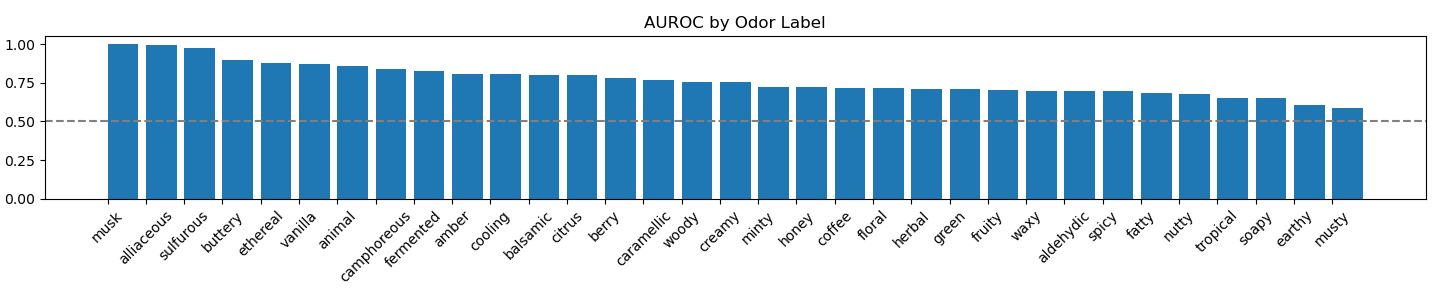
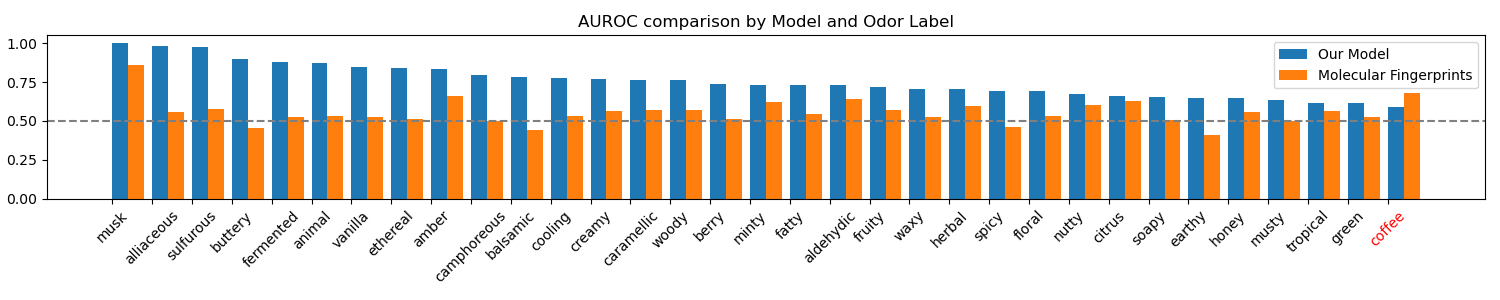
Baseline for pair task

diff --git a/pairing/fingerprint.py b/pairing/fingerprint.py
@@ -1,0 +1,57 @@
+from pairing.data import PairData, Dataset, loader
+import rdkit
+import rdkit.Chem.rdFingerprintGenerator
+import numpy as np
+import single.model
+import analysis.auroc
+import torch
+import torchmetrics
+import tqdm
+
+# https://github.com/rdkit/rdkit/discussions/3863
+def to_numpy(fp):
+    return np.frombuffer(bytes(fp.ToBitString(), 'utf-8'), 'u1') - ord('0')
+
+def collate(mfpgen,dataset):
+    preds = []
+    ys = []
+    for i,d in enumerate(tqdm.tqdm(dataset)):
+        # Caching these converts from O(n^2)
+        # to O(n)
+        mol1 = rdkit.Chem.MolFromSmiles(d.smiles_s)
+        fp1 = mfpgen.GetFingerprint(mol1)
+        
+        mol2 = rdkit.Chem.MolFromSmiles(d.smiles_t)
+        fp2 = mfpgen.GetFingerprint(mol2)
+        
+        preds.append(np.concatenate([to_numpy(fp1),to_numpy(fp2)]))
+        
+        ys.append(d.y.numpy())
+
+    return np.stack(preds, axis=0), np.stack(ys, axis=0)
+
+def get_test_pred_y():
+    train = Dataset(is_train=True)
+    test = Dataset(is_train=False)
+
+    mfpgen = rdkit.Chem.rdFingerprintGenerator.GetMorganGenerator(radius=4,fpSize=2048)
+
+    print("Loading train data")
+    train_embed, train_y = collate(mfpgen,train)
+    print("Loading test data")
+    test_embed, test_y = collate(mfpgen,test)
+
+    print("Fitting model")
+    lgr = single.model.LogitRegression().fit(train_embed,train_y)
+
+    tensor_pred = torch.tensor(lgr.predict(test_embed))
+    tensor_y = torch.tensor(test_y)
+
+    return tensor_pred, tensor_y
+
+    # auroc = torchmetrics.classification.MultilabelAUROC(single.data.Dataset.num_classes())
+    # print(auroc(tensor_pred,torch.tensor(tensor_y).int()))
+    # analysis.auroc.make_chart(tensor_pred,tensor_y)
+
+if __name__ == "__main__":
+    get_test_pred_y()

diff --git a/single/model.py b/single/model.py
@@ -1,15 +1,7 @@
-from main import MixturePredictor, GCN
-import single.data
-import pairing.data
-import analysis.best
-import torch_geometric as pyg
-import torch
-import numpy as np
+import scipy
 import sklearn
 import sklearn.linear_model
-import scipy
-import torchmetrics
-import analysis.auroc
+import numpy as np
 
 class LogitRegression(sklearn.linear_model.LinearRegression):
     EPS = 1e-5
@@ -28,40 +20,3 @@ class LogitRegression(sklearn.linear_model.LinearRegression):
     def predict(self, x):
         y = super().predict(x)
         return scipy.special.expit(y)
-
-train = single.data.Dataset(is_train=True)
-test = single.data.Dataset(is_train=False)
-
-model = analysis.best.model.gcn
-model.eval()
-
-def collate(dataset):
-    loader = pyg.loader.DataLoader(dataset,batch_size=32)
-    preds = []
-    ys = []
-    for batch in loader:
-        with torch.no_grad():
-            pred = model(**batch.to_dict())
-
-        preds.append(pred)
-        y = batch.y.reshape((len(batch),-1))
-        ys.append(y)
-
-    return torch.cat(preds, dim=0).numpy(), torch.cat(ys, dim=0).numpy()
-
-
-train_x, train_y = collate(train)
-test_x, test_y = collate(test)
-
-lgr = LogitRegression().fit(train_x,train_y)
-
-test_pred = torch.tensor(lgr.predict(test_x))
-test_y = torch.tensor(test_y)
-
-auroc = torchmetrics.classification.MultilabelAUROC(single.data.Dataset.num_classes())
-print(auroc(test_pred,torch.tensor(test_y).int()))
-analysis.auroc.make_chart(test_pred,test_y)
-
-
-
-

diff --git a/analysis/auroc.py b/analysis/auroc.py
@@ -7,6 +7,40 @@ import analysis.best
 
 import matplotlib.pyplot as plt
 
+# Sorted based on first input
+def make_dual_chart(pred1,y1,label1,pred2,y2,label2):
+    all_notes = np.array(pairing.data.get_all_notes())
+    auroc = torchmetrics.classification.MultilabelAUROC(Dataset.num_classes(),average=None)
+    
+    scores1 = auroc(pred1,y1.int()).numpy()
+    scores2 = auroc(pred2,y2.int()).numpy()
+    
+    idcs = np.flip(np.argsort(scores1))
+    scores1 = scores1[idcs]
+    scores2 = scores2[idcs]
+    all_notes = all_notes[idcs]
+    idxs = [i for i in range(len(all_notes))]
+
+    w = .4
+
+    plt.figure(figsize=(15, 3))
+    plt.bar(idxs,scores1,width=w,align='edge')
+    plt.bar([i+w for i in idxs],scores2,width=w,align='edge')
+    plt.legend([label1,label2])
+    plt.axhline(y=0.5,color='grey',linestyle='dashed')
+    plt.xticks(ticks=idxs,labels=all_notes,rotation=45)
+    plt.title("AUROC comparison by Model and Odor Label")
+    plt.tight_layout()
+
+    for ticklabel in plt.gca().get_xticklabels():
+        idx = ticklabel._x
+        if scores1[idx] < .5 or scores1[idx] < scores2[idx]:
+            ticklabel.set_color('r')
+        else:
+            ticklabel.set_color('black')
+
+    plt.show()
+
 def make_chart(pred,y):
     all_notes = np.array(pairing.data.get_all_notes())
     auroc = torchmetrics.classification.MultilabelAUROC(Dataset.num_classes(),average=None)

diff --git a/single/fingerprint.py b/single/fingerprint.py
@@ -1,0 +1,44 @@
+import single.data
+import rdkit
+import rdkit.Chem.rdFingerprintGenerator
+import numpy as np
+import single.model
+import analysis.auroc
+import torch
+import torchmetrics
+import tqdm
+
+# https://github.com/rdkit/rdkit/discussions/3863
+def to_numpy(fp):
+    return np.frombuffer(bytes(fp.ToBitString(), 'utf-8'), 'u1') - ord('0')
+
+def collate(mfpgen,dataset):
+    preds = []
+    ys = []
+    for d in dataset:
+        mol = rdkit.Chem.MolFromSmiles(d.smiles)
+        fp = mfpgen.GetFingerprint(mol)
+        preds.append(to_numpy(fp))
+        ys.append(d.y.numpy())
+
+    return np.stack(preds, axis=0), np.stack(ys, axis=0)
+
+def get_train_pred_y():
+    train = single.data.Dataset(is_train=True)
+    test = single.data.Dataset(is_train=False)
+
+    mfpgen = rdkit.Chem.rdFingerprintGenerator.GetMorganGenerator(radius=4,fpSize=2048)
+
+    train_embed, train_y = collate(mfpgen,train)
+    test_embed, test_y = collate(mfpgen,test)
+
+    lgr = single.model.LogitRegression().fit(train_embed,train_y)
+
+    tensor_pred = torch.tensor(lgr.predict(test_embed))
+    tensor_y = torch.tensor(test_y)
+
+    return tensor_pred, tensor_y
+
+    # auroc = torchmetrics.classification.MultilabelAUROC(single.data.Dataset.num_classes())
+    # print(auroc(tensor_pred,torch.tensor(tensor_y).int()))
+    # analysis.auroc.make_chart(tensor_pred,tensor_y)

diff --git a/single/embedding.py b/single/embedding.py
@@ -1,0 +1,49 @@
+from main import MixturePredictor, GCN
+import single.data
+import pairing.data
+import analysis.best
+import torch_geometric as pyg
+import torch
+import numpy as np
+import torchmetrics
+import analysis.auroc
+import single.map
+import single.model
+
+def collate(model,dataset):
+    loader = pyg.loader.DataLoader(dataset,batch_size=32)
+    preds = []
+    ys = []
+    for batch in loader:
+        with torch.no_grad():
+            pred = model(**batch.to_dict())
+
+        preds.append(pred)
+        y = batch.y.reshape((len(batch),-1))
+        ys.append(y)
+
+    return torch.cat(preds, dim=0).numpy(), torch.cat(ys, dim=0).numpy()
+
+
+def get_train_pred_y():
+    train = single.data.Dataset(is_train=True)
+    test = single.data.Dataset(is_train=False)
+
+    model = analysis.best.get_model().gcn
+    model.eval()
+
+    train_embed, train_y = collate(model,train)
+    test_embed, test_y = collate(model,test)
+
+    lgr = single.model.LogitRegression().fit(train_embed,train_y)
+
+    tensor_pred = torch.tensor(lgr.predict(test_embed))
+    tensor_y = torch.tensor(test_y)
+    return tensor_pred, tensor_y
+
+def do_map():
+    embed = np.concatenate((train_embed,test_embed))
+    y = np.concatenate((train_y,test_y))
+    single.map.make_chart(embed,y)
+
+

diff --git a/analysis/best.py b/analysis/best.py
@@ -4,15 +4,19 @@ from pairing.data import PairData, Dataset, loader
 from main import MixturePredictor, GCN
 import tqdm
 
-best_trial = "1efcd2d0"
+def get_model():
+    best_trial = "1efcd2d0"
 
-ms = torch.load(f"runs/{best_trial}/model.pt",map_location=torch.device('cpu'))
-# SOOOOO HACKY but we saved models directly. When loading from file the model params are not saved
-# So we build a new model with the same params and then build.
-model = MixturePredictor(embedding_size=832,num_linear=2,num_convs=3,aggr_steps=0,architecture="GIN")
-model.load_state_dict(ms.state_dict())
+    ms = torch.load(f"runs/{best_trial}/model.pt",map_location=torch.device('cpu'))
+    # SOOOOO HACKY but we saved models directly. When loading from file the model params are not saved
+    # So we build a new model with the same params and then build.
+    model = MixturePredictor(embedding_size=832,num_linear=2,num_convs=3,aggr_steps=0,architecture="GIN")
+    model.load_state_dict(ms.state_dict())
+    return model
 
 def collate_test():
+    model = get_model()
+
     device = "cpu"
     test_loader = loader(Dataset(is_train=False), batch_size=128)
     model.eval()

diff --git a/single/map.py b/single/map.py
@@ -1,0 +1,34 @@
+import single.data
+import matplotlib.pyplot as plt
+import sklearn
+import sklearn.decomposition
+import torch
+import numpy as np
+import pairing.data
+
+all_notes = np.array(pairing.data.get_all_notes())
+all_notes_lst = all_notes.tolist()
+
+def get_notes(y):
+    idcs = y.nonzero()
+    return all_notes[idcs].tolist()
+
+def get_color(notes):
+    if len(notes) > 1:
+        return 0
+    n = notes[0]
+    return all_notes_lst.index(n)
+
+def make_chart(all_embed,all_y):
+    data_notes = [get_notes(y) for y in all_y]
+    all_c = [get_color(notes) for notes in data_notes]
+
+    all_embed = [e for i,e in enumerate(all_embed) if all_c[i] !=0]
+    all_y = [y for i,y in enumerate(all_y) if all_c[i] !=0]
+    colors = [c for c in all_c if c !=0]
+    pca = sklearn.decomposition.PCA(n_components=2)
+    coords = pca.fit_transform(all_embed)
+
+    print(len(colors))
+    plt.scatter(coords[:,0],coords[:,1],c=colors)
+    plt.show()

diff --git a/pairing/comparison.py b/pairing/comparison.py
@@ -1,0 +1,10 @@
+from main import MixturePredictor, GCN
+from pairing.data import PairData, Dataset, loader
+import pairing.fingerprint
+import analysis.auroc
+import analysis.best
+
+
+pred1, y1 = analysis.best.collate_test()
+pred2, y2 = pairing.fingerprint.get_test_pred_y()
+analysis.auroc.make_dual_chart(pred1,y1,"Our Model",pred2,y2,"Molecular Fingerprints")

diff --git a/single/comparison.py b/single/comparison.py
@@ -1,0 +1,10 @@
+from main import MixturePredictor, GCN
+import single.embedding
+import single.fingerprint
+import analysis.auroc
+
+
+pred1,y1 = single.embedding.get_train_pred_y()
+pred2,y2 = single.fingerprint.get_train_pred_y()
+
+analysis.auroc.make_dual_chart(pred1,y1,"Our Model",pred2,y2,"Molecular Fingerprints")
